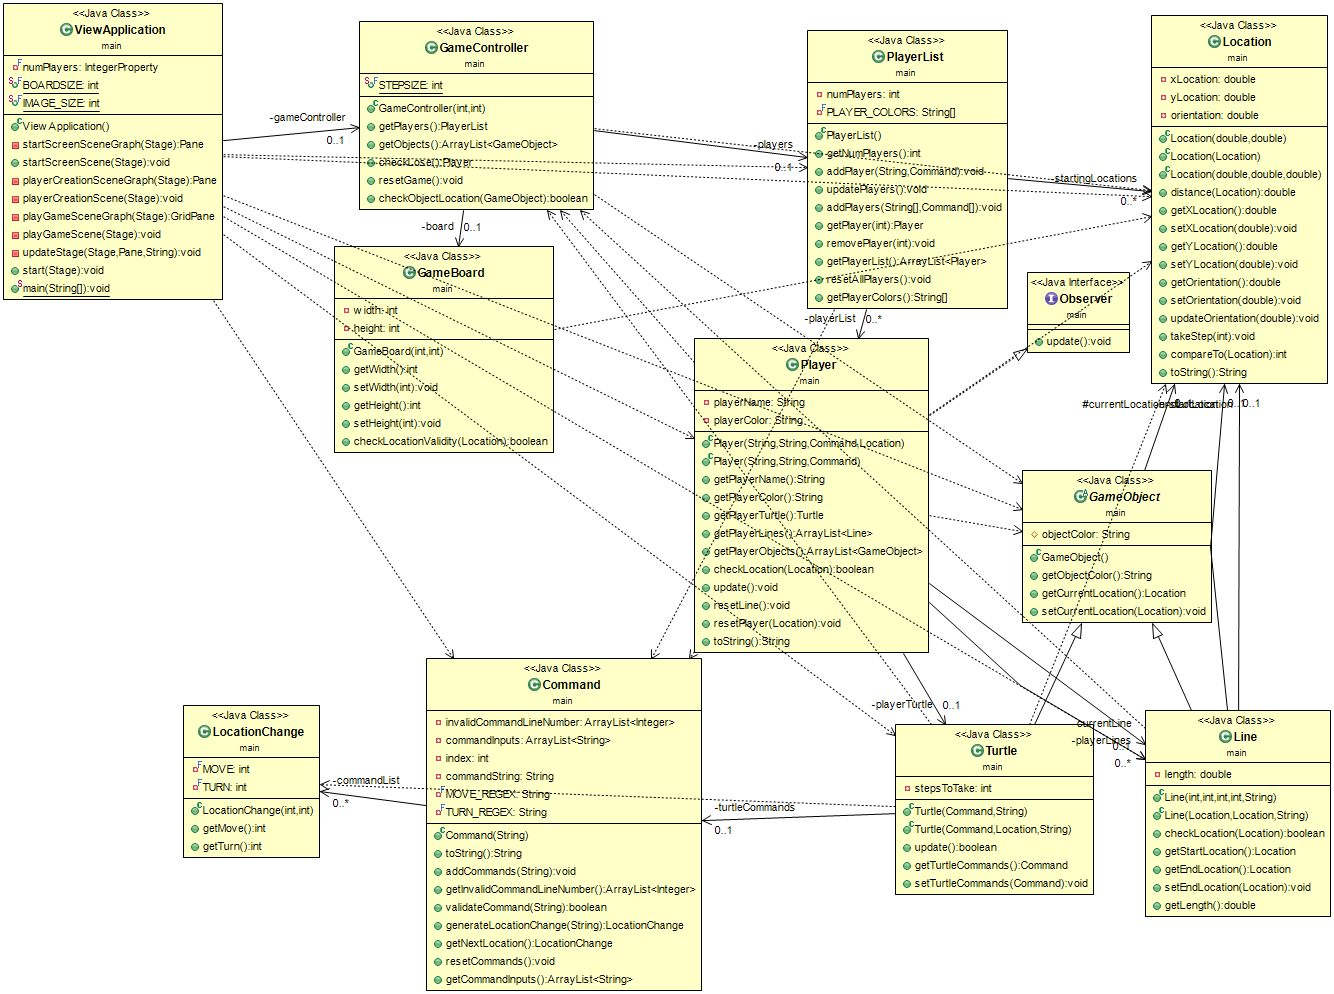
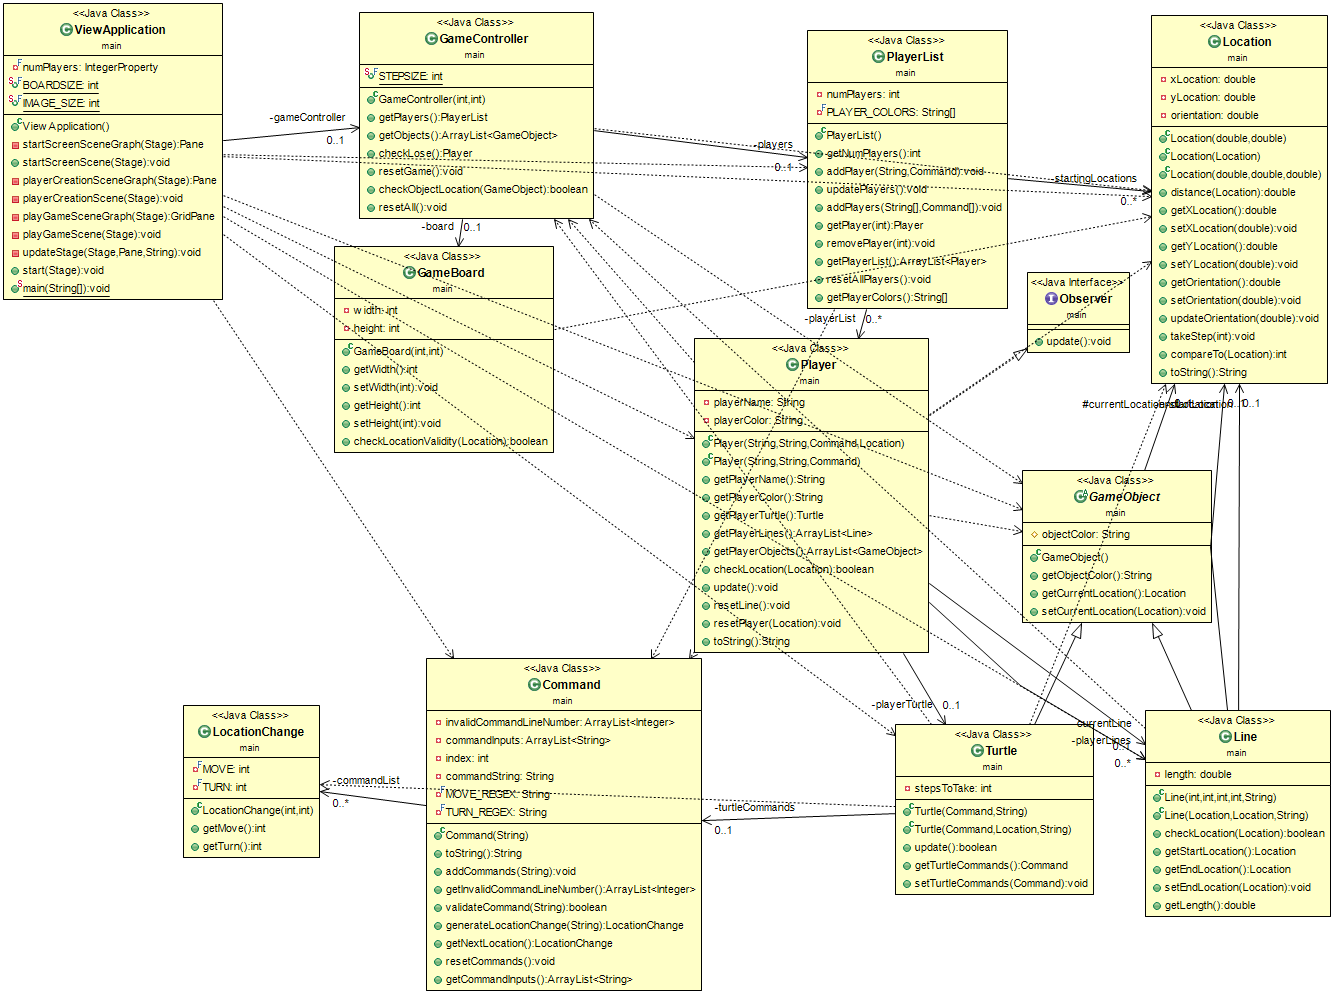
Tried to fix everything that I broke L M A O
I am icarus, and the "play new game" button is the sun

Changed region(s): [[0.2766, 0.0, 0.461, 0.2495]]

diff --git a/src/main/ViewApplication.java b/src/main/ViewApplication.java
@@ -326,7 +326,7 @@ public class ViewApplication extends Application {
             private long startNanoTime = 0;
 
             /**
-             * Start the sytem by setting startNanoTime to track the elapsed time
+             * Start the system by setting startNanoTime to track the elapsed time
              */
             @Override
             public void start(){
@@ -374,6 +374,7 @@ public class ViewApplication extends Application {
 
                         Platform.runLater(winAlert::showAndWait);
                         gameController.resetGame();
+                        gc.fillRect(0, 0, BOARDSIZE, BOARDSIZE);
                         this.stop();
                     }
                 }
@@ -387,7 +388,8 @@ public class ViewApplication extends Application {
         
         Button newGameButton = new Button("New Game");
         newGameButton.setOnAction((event)->{
-        	startScreenScene(primaryStage);
+//        	startScreenScene(primaryStage);
+        
         });
         root.getChildren().addAll(startButton, newGameButton);
         GridPane.setConstraints(startButton, 2,2);

diff --git a/src/main/GameController.java b/src/main/GameController.java
@@ -82,6 +82,7 @@ public class GameController {
      * Reset all players back to initial positions, and remove all lines.
      */
     public void resetGame(){
+    	System.out.println("RESETTING"+players);
         players.resetAllPlayers();
     }
 
@@ -115,5 +116,13 @@ public class GameController {
             }
         }
         return wasChanged;
+    }
+    
+    /**
+     * Reset the full game, deleting all players.
+     */
+    public void resetAll() {
+    	System.out.println("RESETTINGALL PLAYERS");
+    	players = new PlayerList();
     }
 }

diff --git a/src/main/Player.java b/src/main/Player.java
@@ -141,6 +141,7 @@ public class Player implements Observer{
      * @param startLoc The Location to set the Turtle to.
      */
     public void resetPlayer(Location startLoc){
+    	System.out.println("REsetting indiv. player");
         playerLines.clear();
         playerTurtle.setCurrentLocation(startLoc);
         currentLine = null;
